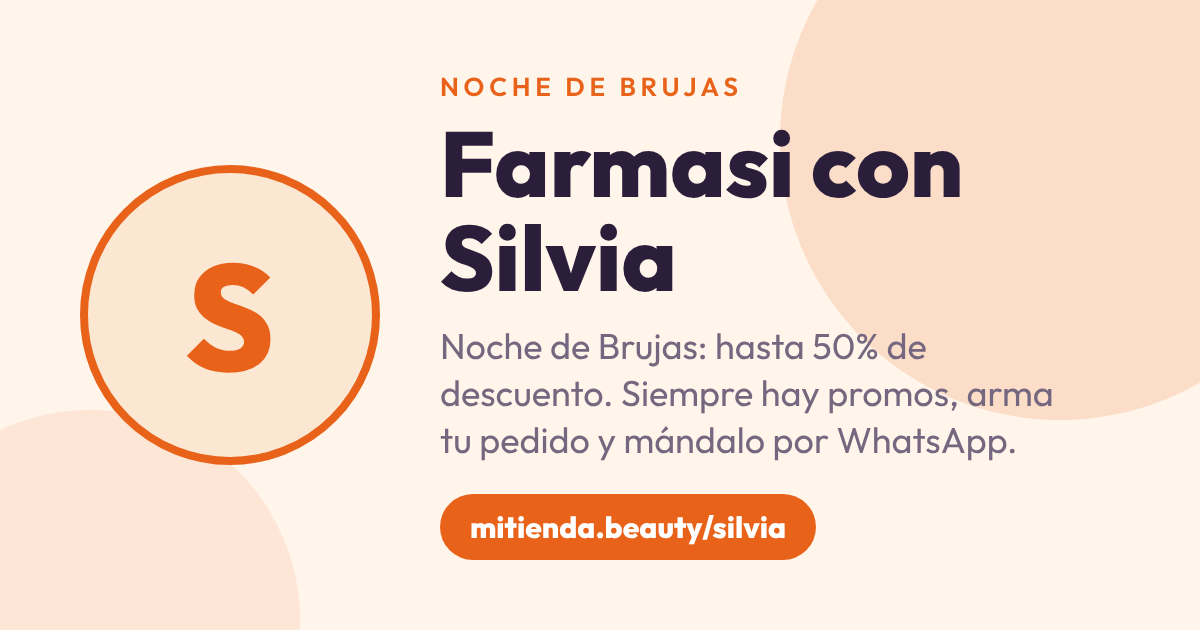
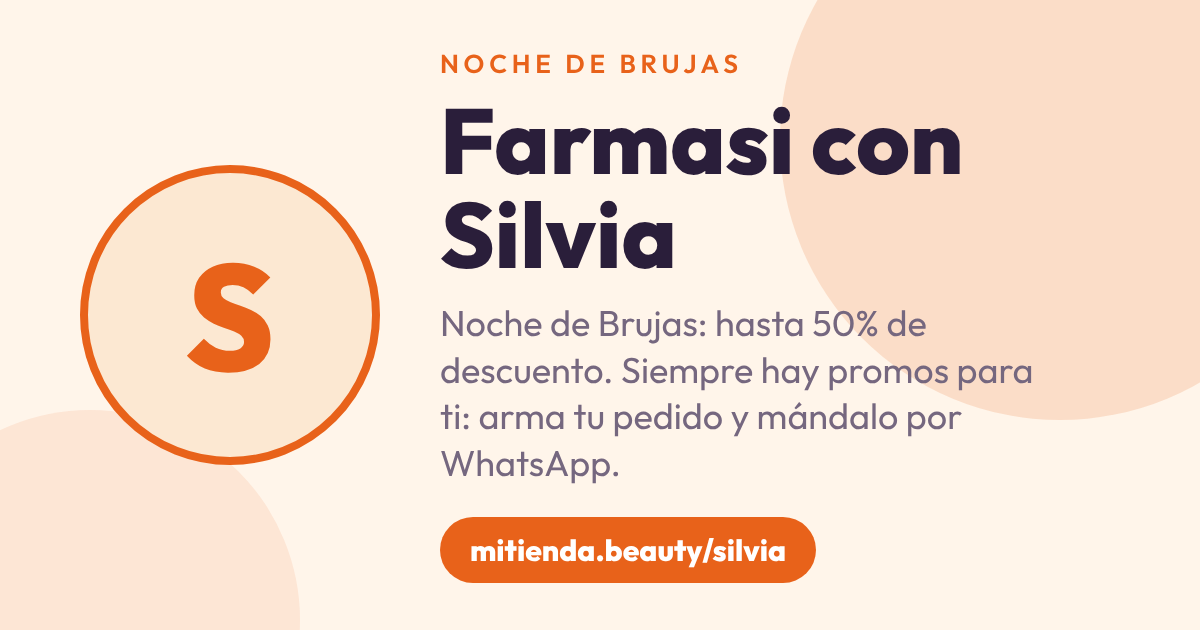
Vistas previas: copy de eventos y promos
Claude-Session: https://claude.ai/code/session_01WesQxjD6cAK6tdYb2aBDD2

Changed region(s): [[0.37, 0.0905, 0.8942, 0.754], [0.37, 0.7841, 0.6783, 0.9349]]

diff --git a/anaofelia/index.html b/anaofelia/index.html
@@ -10,15 +10,15 @@
 <title>Farmasi con Ana Ofelia</title>
 <meta name="description" content="Venta especial de maquillaje con Ana Ofelia. Elige tus productos y manda tu pedido por WhatsApp.">
 <meta property="og:title" content="Farmasi con Ana Ofelia">
-<meta property="og:description" content="Noche de Brujas: hasta 50% de descuento. Siempre hay promos, arma tu pedido y mándalo por WhatsApp.">
+<meta property="og:description" content="Noche de Brujas: hasta 50% de descuento. Siempre hay promos para ti: arma tu pedido y mándalo por WhatsApp.">
 <meta property="og:type" content="website">
 <meta property="og:locale" content="es_MX">
 <meta property="og:url" content="https://mitienda.beauty/anaofelia/">
-<meta property="og:image" content="https://mitienda.beauty/og/anaofelia.png?v=c62739c2">
+<meta property="og:image" content="https://mitienda.beauty/og/anaofelia.png?v=a64262da">
 <meta property="og:image:width" content="1200">
 <meta property="og:image:height" content="630">
 <meta name="twitter:card" content="summary_large_image">
-<meta name="twitter:image" content="https://mitienda.beauty/og/anaofelia.png?v=c62739c2">
+<meta name="twitter:image" content="https://mitienda.beauty/og/anaofelia.png?v=a64262da">
 <link rel="preconnect" href="https://fonts.googleapis.com">
 <link rel="preconnect" href="https://fonts.gstatic.com" crossorigin>
 <link href="https://fonts.googleapis.com/css2?family=IBM+Plex+Mono:wght@400;500;700&family=Outfit:wght@300;400;500;600;700;800&display=swap" rel="stylesheet">

diff --git a/anagomez/index.html b/anagomez/index.html
@@ -10,15 +10,15 @@
 <title>Farmasi con Ana Gómez</title>
 <meta name="description" content="Venta especial de maquillaje con Ana Gómez. Elige tus productos y manda tu pedido por WhatsApp.">
 <meta property="og:title" content="Farmasi con Ana Gómez">
-<meta property="og:description" content="Noche de Brujas: hasta 50% de descuento. Siempre hay promos, arma tu pedido y mándalo por WhatsApp.">
+<meta property="og:description" content="Noche de Brujas: hasta 50% de descuento. Siempre hay promos para ti: arma tu pedido y mándalo por WhatsApp.">
 <meta property="og:type" content="website">
 <meta property="og:locale" content="es_MX">
 <meta property="og:url" content="https://mitienda.beauty/anagomez/">
-<meta property="og:image" content="https://mitienda.beauty/og/anagomez.png?v=53a47ce3">
+<meta property="og:image" content="https://mitienda.beauty/og/anagomez.png?v=fdf95411">
 <meta property="og:image:width" content="1200">
 <meta property="og:image:height" content="630">
 <meta name="twitter:card" content="summary_large_image">
-<meta name="twitter:image" content="https://mitienda.beauty/og/anagomez.png?v=53a47ce3">
+<meta name="twitter:image" content="https://mitienda.beauty/og/anagomez.png?v=fdf95411">
 <link rel="preconnect" href="https://fonts.googleapis.com">
 <link rel="preconnect" href="https://fonts.gstatic.com" crossorigin>
 <link href="https://fonts.googleapis.com/css2?family=IBM+Plex+Mono:wght@400;500;700&family=Outfit:wght@300;400;500;600;700;800&display=swap" rel="stylesheet">

diff --git a/andrea/index.html b/andrea/index.html
@@ -10,15 +10,15 @@
 <title>Farmasi con Andrea</title>
 <meta name="description" content="Venta especial de maquillaje con Andrea. Elige tus productos y manda tu pedido por WhatsApp.">
 <meta property="og:title" content="Farmasi con Andrea">
-<meta property="og:description" content="Noche de Brujas: hasta 50% de descuento. Siempre hay promos, arma tu pedido y mándalo por WhatsApp.">
+<meta property="og:description" content="Noche de Brujas: hasta 50% de descuento. Siempre hay promos para ti: arma tu pedido y mándalo por WhatsApp.">
 <meta property="og:type" content="website">
 <meta property="og:locale" content="es_MX">
 <meta property="og:url" content="https://mitienda.beauty/andrea/">
-<meta property="og:image" content="https://mitienda.beauty/og/andrea.png?v=1976e918">
+<meta property="og:image" content="https://mitienda.beauty/og/andrea.png?v=12f61dfd">
 <meta property="og:image:width" content="1200">
 <meta property="og:image:height" content="630">
 <meta name="twitter:card" content="summary_large_image">
-<meta name="twitter:image" content="https://mitienda.beauty/og/andrea.png?v=1976e918">
+<meta name="twitter:image" content="https://mitienda.beauty/og/andrea.png?v=12f61dfd">
 <link rel="preconnect" href="https://fonts.googleapis.com">
 <link rel="preconnect" href="https://fonts.gstatic.com" crossorigin>
 <link href="https://fonts.googleapis.com/css2?family=IBM+Plex+Mono:wght@400;500;700&family=Outfit:wght@300;400;500;600;700;800&display=swap" rel="stylesheet">

diff --git a/silvia/index.html b/silvia/index.html
@@ -10,15 +10,15 @@
 <title>Farmasi con Silvia</title>
 <meta name="description" content="Venta especial de maquillaje con Silvia. Elige tus productos y manda tu pedido por WhatsApp.">
 <meta property="og:title" content="Farmasi con Silvia">
-<meta property="og:description" content="Noche de Brujas: hasta 50% de descuento. Siempre hay promos, arma tu pedido y mándalo por WhatsApp.">
+<meta property="og:description" content="Noche de Brujas: hasta 50% de descuento. Siempre hay promos para ti: arma tu pedido y mándalo por WhatsApp.">
 <meta property="og:type" content="website">
 <meta property="og:locale" content="es_MX">
 <meta property="og:url" content="https://mitienda.beauty/silvia/">
-<meta property="og:image" content="https://mitienda.beauty/og/silvia.png?v=45352b0a">
+<meta property="og:image" content="https://mitienda.beauty/og/silvia.png?v=0282c0f1">
 <meta property="og:image:width" content="1200">
 <meta property="og:image:height" content="630">
 <meta name="twitter:card" content="summary_large_image">
-<meta name="twitter:image" content="https://mitienda.beauty/og/silvia.png?v=45352b0a">
+<meta name="twitter:image" content="https://mitienda.beauty/og/silvia.png?v=0282c0f1">
 <link rel="preconnect" href="https://fonts.googleapis.com">
 <link rel="preconnect" href="https://fonts.gstatic.com" crossorigin>
 <link href="https://fonts.googleapis.com/css2?family=IBM+Plex+Mono:wght@400;500;700&family=Outfit:wght@300;400;500;600;700;800&display=swap" rel="stylesheet">

diff --git a/yazmin/index.html b/yazmin/index.html
@@ -10,15 +10,15 @@
 <title>Farmasi con Yazmin</title>
 <meta name="description" content="Venta especial de maquillaje con Yazmin. Elige tus productos y manda tu pedido por WhatsApp.">
 <meta property="og:title" content="Farmasi con Yazmin">
-<meta property="og:description" content="Noche de Brujas: hasta 50% de descuento. Siempre hay promos, arma tu pedido y mándalo por WhatsApp.">
+<meta property="og:description" content="Noche de Brujas: hasta 50% de descuento. Siempre hay promos para ti: arma tu pedido y mándalo por WhatsApp.">
 <meta property="og:type" content="website">
 <meta property="og:locale" content="es_MX">
 <meta property="og:url" content="https://mitienda.beauty/yazmin/">
-<meta property="og:image" content="https://mitienda.beauty/og/yazmin.png?v=a36bca44">
+<meta property="og:image" content="https://mitienda.beauty/og/yazmin.png?v=e9d6ccd0">
 <meta property="og:image:width" content="1200">
 <meta property="og:image:height" content="630">
 <meta name="twitter:card" content="summary_large_image">
-<meta name="twitter:image" content="https://mitienda.beauty/og/yazmin.png?v=a36bca44">
+<meta name="twitter:image" content="https://mitienda.beauty/og/yazmin.png?v=e9d6ccd0">
 <link rel="preconnect" href="https://fonts.googleapis.com">
 <link rel="preconnect" href="https://fonts.gstatic.com" crossorigin>
 <link href="https://fonts.googleapis.com/css2?family=IBM+Plex+Mono:wght@400;500;700&family=Outfit:wght@300;400;500;600;700;800&display=swap" rel="stylesheet">

diff --git a/danny/index.html b/danny/index.html
@@ -10,15 +10,15 @@
 <title>Farmasi con Danny</title>
 <meta name="description" content="Venta especial de maquillaje con Danny. Elige tus productos y manda tu pedido por WhatsApp.">
 <meta property="og:title" content="Farmasi con Danny">
-<meta property="og:description" content="Noche de Brujas: hasta 50% de descuento. Siempre hay promos, arma tu pedido y mándalo por WhatsApp.">
+<meta property="og:description" content="Noche de Brujas: hasta 50% de descuento. Siempre hay promos para ti: arma tu pedido y mándalo por WhatsApp.">
 <meta property="og:type" content="website">
 <meta property="og:locale" content="es_MX">
 <meta property="og:url" content="https://mitienda.beauty/danny/">
-<meta property="og:image" content="https://mitienda.beauty/og/danny.png?v=4346892c">
+<meta property="og:image" content="https://mitienda.beauty/og/danny.png?v=b22361a8">
 <meta property="og:image:width" content="1200">
 <meta property="og:image:height" content="630">
 <meta name="twitter:card" content="summary_large_image">
-<meta name="twitter:image" content="https://mitienda.beauty/og/danny.png?v=4346892c">
+<meta name="twitter:image" content="https://mitienda.beauty/og/danny.png?v=b22361a8">
 <link rel="preconnect" href="https://fonts.googleapis.com">
 <link rel="preconnect" href="https://fonts.gstatic.com" crossorigin>
 <link href="https://fonts.googleapis.com/css2?family=IBM+Plex+Mono:wght@400;500;700&family=Outfit:wght@300;400;500;600;700;800&display=swap" rel="stylesheet">

diff --git a/laura/index.html b/laura/index.html
@@ -10,15 +10,15 @@
 <title>Farmasi con Laura</title>
 <meta name="description" content="Venta especial de maquillaje con Laura. Elige tus productos y manda tu pedido por WhatsApp.">
 <meta property="og:title" content="Farmasi con Laura">
-<meta property="og:description" content="Noche de Brujas: hasta 50% de descuento. Siempre hay promos, arma tu pedido y mándalo por WhatsApp.">
+<meta property="og:description" content="Noche de Brujas: hasta 50% de descuento. Siempre hay promos para ti: arma tu pedido y mándalo por WhatsApp.">
 <meta property="og:type" content="website">
 <meta property="og:locale" content="es_MX">
 <meta property="og:url" content="https://mitienda.beauty/laura/">
-<meta property="og:image" content="https://mitienda.beauty/og/laura.png?v=088fef9c">
+<meta property="og:image" content="https://mitienda.beauty/og/laura.png?v=d550fd0a">
 <meta property="og:image:width" content="1200">
 <meta property="og:image:height" content="630">
 <meta name="twitter:card" content="summary_large_image">
-<meta name="twitter:image" content="https://mitienda.beauty/og/laura.png?v=088fef9c">
+<meta name="twitter:image" content="https://mitienda.beauty/og/laura.png?v=d550fd0a">
 <link rel="preconnect" href="https://fonts.googleapis.com">
 <link rel="preconnect" href="https://fonts.gstatic.com" crossorigin>
 <link href="https://fonts.googleapis.com/css2?family=IBM+Plex+Mono:wght@400;500;700&family=Outfit:wght@300;400;500;600;700;800&display=swap" rel="stylesheet">

diff --git a/nancy/index.html b/nancy/index.html
@@ -10,15 +10,15 @@
 <title>Farmasi con Nancy</title>
 <meta name="description" content="Venta especial de maquillaje con Nancy. Elige tus productos y manda tu pedido por WhatsApp.">
 <meta property="og:title" content="Farmasi con Nancy">
-<meta property="og:description" content="Noche de Brujas: hasta 50% de descuento. Siempre hay promos, arma tu pedido y mándalo por WhatsApp.">
+<meta property="og:description" content="Noche de Brujas: hasta 50% de descuento. Siempre hay promos para ti: arma tu pedido y mándalo por WhatsApp.">
 <meta property="og:type" content="website">
 <meta property="og:locale" content="es_MX">
 <meta property="og:url" content="https://mitienda.beauty/nancy/">
-<meta property="og:image" content="https://mitienda.beauty/og/nancy.png?v=d80d01f8">
+<meta property="og:image" content="https://mitienda.beauty/og/nancy.png?v=bba290a9">
 <meta property="og:image:width" content="1200">
 <meta property="og:image:height" content="630">
 <meta name="twitter:card" content="summary_large_image">
-<meta name="twitter:image" content="https://mitienda.beauty/og/nancy.png?v=d80d01f8">
+<meta name="twitter:image" content="https://mitienda.beauty/og/nancy.png?v=bba290a9">
 <link rel="preconnect" href="https://fonts.googleapis.com">
 <link rel="preconnect" href="https://fonts.gstatic.com" crossorigin>
 <link href="https://fonts.googleapis.com/css2?family=IBM+Plex+Mono:wght@400;500;700&family=Outfit:wght@300;400;500;600;700;800&display=swap" rel="stylesheet">

diff --git a/sebas/index.html b/sebas/index.html
@@ -10,15 +10,15 @@
 <title>Farmasi con Sebas</title>
 <meta name="description" content="Venta especial de maquillaje con Sebas. Elige tus productos y manda tu pedido por WhatsApp.">
 <meta property="og:title" content="Farmasi con Sebas">
-<meta property="og:description" content="Noche de Brujas: hasta 50% de descuento. Siempre hay promos, arma tu pedido y mándalo por WhatsApp.">
+<meta property="og:description" content="Noche de Brujas: hasta 50% de descuento. Siempre hay promos para ti: arma tu pedido y mándalo por WhatsApp.">
 <meta property="og:type" content="website">
 <meta property="og:locale" content="es_MX">
 <meta property="og:url" content="https://mitienda.beauty/sebas/">
-<meta property="og:image" content="https://mitienda.beauty/og/sebas.png?v=8613c156">
+<meta property="og:image" content="https://mitienda.beauty/og/sebas.png?v=563189c1">
 <meta property="og:image:width" content="1200">
 <meta property="og:image:height" content="630">
 <meta name="twitter:card" content="summary_large_image">
-<meta name="twitter:image" content="https://mitienda.beauty/og/sebas.png?v=8613c156">
+<meta name="twitter:image" content="https://mitienda.beauty/og/sebas.png?v=563189c1">
 <link rel="preconnect" href="https://fonts.googleapis.com">
 <link rel="preconnect" href="https://fonts.gstatic.com" crossorigin>
 <link href="https://fonts.googleapis.com/css2?family=IBM+Plex+Mono:wght@400;500;700&family=Outfit:wght@300;400;500;600;700;800&display=swap" rel="stylesheet">

diff --git a/sel/index.html b/sel/index.html
@@ -10,15 +10,15 @@
 <title>Farmasi con Selene</title>
 <meta name="description" content="Venta especial de maquillaje con Selene. Elige tus productos y manda tu pedido por WhatsApp.">
 <meta property="og:title" content="Farmasi con Selene">
-<meta property="og:description" content="Noche de Brujas: hasta 50% de descuento. Siempre hay promos, arma tu pedido y mándalo por WhatsApp.">
+<meta property="og:description" content="Noche de Brujas: hasta 50% de descuento. Siempre hay promos para ti: arma tu pedido y mándalo por WhatsApp.">
 <meta property="og:type" content="website">
 <meta property="og:locale" content="es_MX">
 <meta property="og:url" content="https://mitienda.beauty/sel/">
-<meta property="og:image" content="https://mitienda.beauty/og/sel.png?v=d3c1ddfd">
+<meta property="og:image" content="https://mitienda.beauty/og/sel.png?v=69ddf717">
 <meta property="og:image:width" content="1200">
 <meta property="og:image:height" content="630">
 <meta name="twitter:card" content="summary_large_image">
-<meta name="twitter:image" content="https://mitienda.beauty/og/sel.png?v=d3c1ddfd">
+<meta name="twitter:image" content="https://mitienda.beauty/og/sel.png?v=69ddf717">
 <link rel="preconnect" href="https://fonts.googleapis.com">
 <link rel="preconnect" href="https://fonts.gstatic.com" crossorigin>
 <link href="https://fonts.googleapis.com/css2?family=IBM+Plex+Mono:wght@400;500;700&family=Outfit:wght@300;400;500;600;700;800&display=swap" rel="stylesheet">

diff --git a/andi/index.html b/andi/index.html
@@ -10,15 +10,15 @@
 <title>Farmasi con Andi</title>
 <meta name="description" content="Venta especial de maquillaje con Andi. Elige tus productos y manda tu pedido por WhatsApp.">
 <meta property="og:title" content="Farmasi con Andi">
-<meta property="og:description" content="Noche de Brujas: hasta 50% de descuento. Siempre hay promos, arma tu pedido y mándalo por WhatsApp.">
+<meta property="og:description" content="Noche de Brujas: hasta 50% de descuento. Siempre hay promos para ti: arma tu pedido y mándalo por WhatsApp.">
 <meta property="og:type" content="website">
 <meta property="og:locale" content="es_MX">
 <meta property="og:url" content="https://mitienda.beauty/andi/">
-<meta property="og:image" content="https://mitienda.beauty/og/andi.png?v=9662d398">
+<meta property="og:image" content="https://mitienda.beauty/og/andi.png?v=0c8874dc">
 <meta property="og:image:width" content="1200">
 <meta property="og:image:height" content="630">
 <meta name="twitter:card" content="summary_large_image">
-<meta name="twitter:image" content="https://mitienda.beauty/og/andi.png?v=9662d398">
+<meta name="twitter:image" content="https://mitienda.beauty/og/andi.png?v=0c8874dc">
 <link rel="preconnect" href="https://fonts.googleapis.com">
 <link rel="preconnect" href="https://fonts.gstatic.com" crossorigin>
 <link href="https://fonts.googleapis.com/css2?family=IBM+Plex+Mono:wght@400;500;700&family=Outfit:wght@300;400;500;600;700;800&display=swap" rel="stylesheet">

diff --git a/elda/index.html b/elda/index.html
@@ -10,15 +10,15 @@
 <title>Farmasi con Elda</title>
 <meta name="description" content="Venta especial de maquillaje con Elda. Elige tus productos y manda tu pedido por WhatsApp.">
 <meta property="og:title" content="Farmasi con Elda">
-<meta property="og:description" content="Noche de Brujas: hasta 50% de descuento. Siempre hay promos, arma tu pedido y mándalo por WhatsApp.">
+<meta property="og:description" content="Noche de Brujas: hasta 50% de descuento. Siempre hay promos para ti: arma tu pedido y mándalo por WhatsApp.">
 <meta property="og:type" content="website">
 <meta property="og:locale" content="es_MX">
 <meta property="og:url" content="https://mitienda.beauty/elda/">
-<meta property="og:image" content="https://mitienda.beauty/og/elda.png?v=7ce83822">
+<meta property="og:image" content="https://mitienda.beauty/og/elda.png?v=147992f5">
 <meta property="og:image:width" content="1200">
 <meta property="og:image:height" content="630">
 <meta name="twitter:card" content="summary_large_image">
-<meta name="twitter:image" content="https://mitienda.beauty/og/elda.png?v=7ce83822">
+<meta name="twitter:image" content="https://mitienda.beauty/og/elda.png?v=147992f5">
 <link rel="preconnect" href="https://fonts.googleapis.com">
 <link rel="preconnect" href="https://fonts.gstatic.com" crossorigin>
 <link href="https://fonts.googleapis.com/css2?family=IBM+Plex+Mono:wght@400;500;700&family=Outfit:wght@300;400;500;600;700;800&display=swap" rel="stylesheet">
